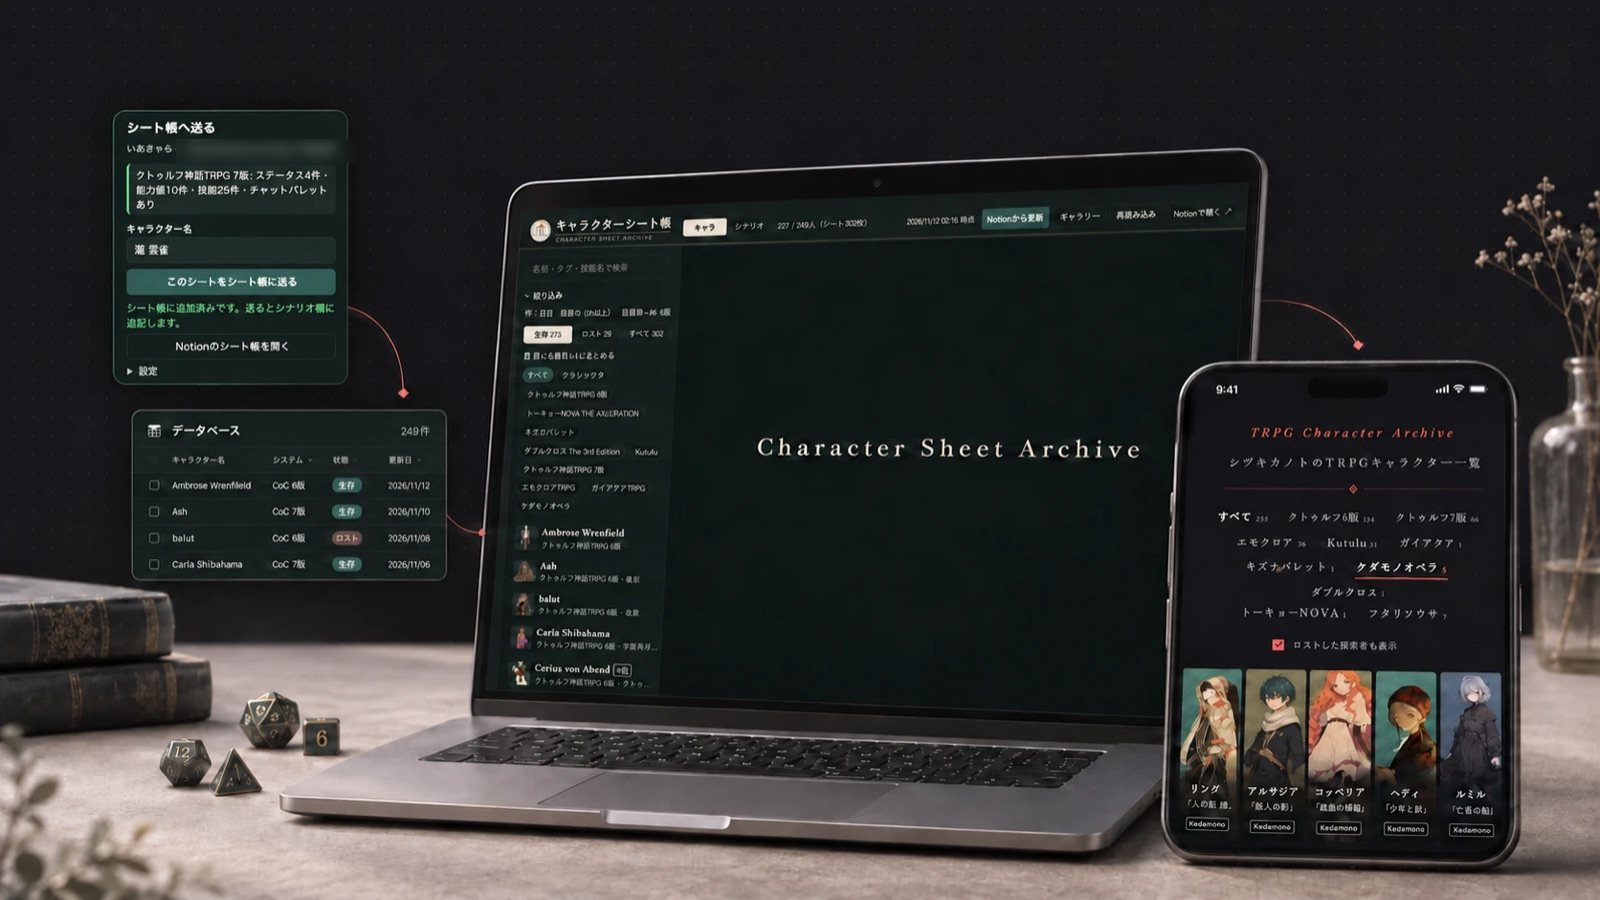
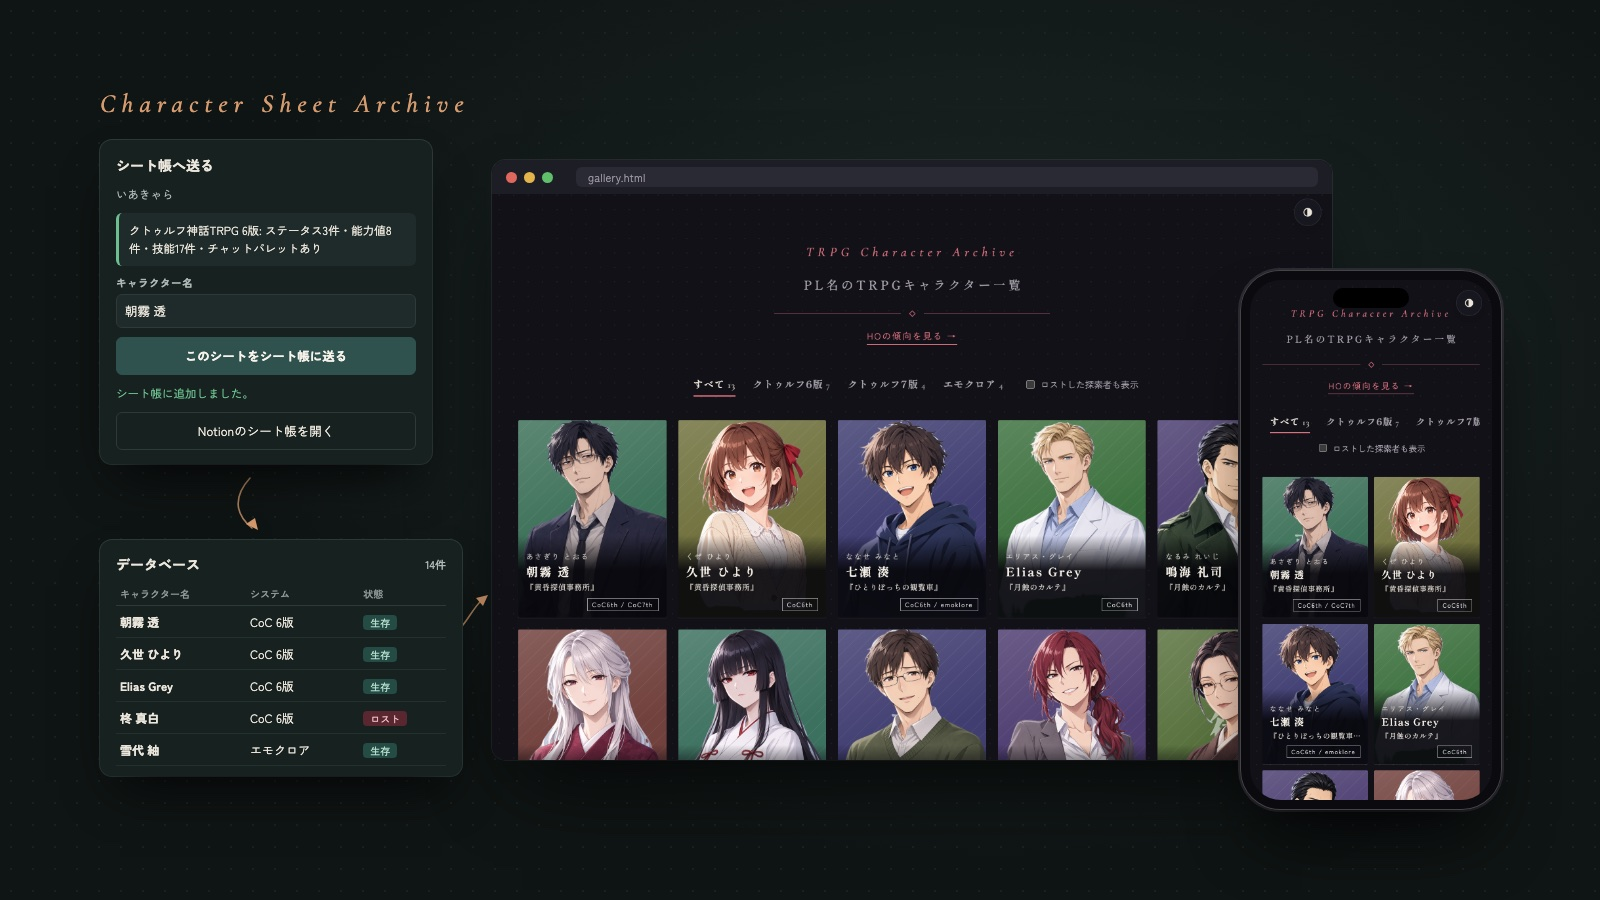
キャラクターシート帳：トップページと紹介ページの画像を、架空のキャラクターで作り直したものに差し替える

diff --git a/works/trpg_charsheet_book/index.html b/works/trpg_charsheet_book/index.html
@@ -9,7 +9,7 @@
   <meta property="og:title" content="キャラクターシート帳">
   <meta property="og:description" content="いあきゃら・キャラッシュなど各サイトのキャラクターシートを、Chrome拡張でNotionに集めて一覧にします。">
   <meta property="og:url" content="https://shizaki-kanoto.is-a.dev/works/trpg_charsheet_book/">
-  <meta property="og:image" content="https://shizaki-kanoto.is-a.dev/works/trpg_charsheet_book/ogp.jpg">
+  <meta property="og:image" content="https://shizaki-kanoto.is-a.dev/works/trpg_charsheet_book/ogp.jpg?v=2">
   <meta property="og:image:width" content="1280">
   <meta property="og:image:height" content="720">
   <meta name="twitter:card" content="summary_large_image">
@@ -213,7 +213,7 @@
         </div>
       </div>
       <figure>
-        <img src="../../images/works/trpg_charsheet_book-image.jpg" alt="キャラクターシート帳のイメージ。Chrome 拡張の「シート帳へ送る」から Notion のデータベースに集まり、ノートパソコンとスマホの一覧ページに表示される" width="1600" height="900">
+        <img src="../../images/works/trpg_charsheet_book-image.jpg?v=2" alt="キャラクターシート帳のイメージ。拡張機能「シート帳へ送る」で送ったシートが Notion のデータベースに集まり、パソコンとスマホのギャラリーに立ち絵つきで並ぶ。画面のキャラクターはすべて架空" width="1600" height="900">
       </figure>
     </div>
   </header>
@@ -243,8 +243,8 @@
       <div class="wrap">
         <h2>実際の画面</h2>
         <figure class="shot">
-          <img src="screen.png" alt="拡張機能「シート帳へ送る」のポップアップ。キャラッシュのエモクロアTRPGのシートで、ステータス3件・能力値8件・技能17件・チャットパレットありと読み取れたこと、キャラクター名、「追加済み：シナリオを更新」のボタン、全42人のうち新規0人・追加済み42人と出ている" width="408" height="493" loading="lazy">
-          <figcaption>キャラッシュでシートを開いて、拡張機能のアイコンを押したところ。読み取れた項目と、Notion に追加済みかどうかが出ます。シートの URL はぼかしています。</figcaption>
+          <img src="screen.png?v=2" alt="拡張機能「シート帳へ送る」のポップアップ。いあきゃらのクトゥルフ神話TRPG 6版のシートで、ステータス3件・能力値8件・技能17件・チャットパレットありと読み取れたこと、キャラクター名「朝霧 透」、「このシートをシート帳に送る」のボタン、「シート帳に追加しました。」の表示が出ている" width="340" height="406" loading="lazy">
+          <figcaption>シートのページで拡張機能のアイコンを押したところ。読み取れた項目が出て、そのまま Notion に送れます。説明用に、架空のキャラクターで表示を再現しています。</figcaption>
         </figure>
 
         <h3 class="sub">ギャラリー</h3>

diff --git a/index.html b/index.html
@@ -629,8 +629,8 @@
         <article class="card">
           <div class="thumb">
             <span class="ph">キャラクターシート帳</span>
-            <img data-view="capture" src="images/works/trpg_charsheet_book.jpg" alt="キャラクターシート帳の画面。左にタグで絞り込めるキャラクター一覧、上に検索と表示切り替えがある" width="1600" height="1000" loading="lazy" onerror="thumbImgError(this)">
-            <img data-view="image" src="images/works/trpg_charsheet_book-image.jpg" alt="キャラクターシート帳のイメージ。Chrome 拡張の「シート帳へ送る」から Notion のデータベースに集まり、ノートパソコンとスマホの一覧ページに表示される" width="1600" height="900" loading="lazy" onerror="thumbImgError(this)">
+            <img data-view="capture" src="images/works/trpg_charsheet_book.jpg?v=2" alt="キャラクターシート帳のギャラリーの画面。架空のキャラクターの立ち絵つきタイルが並び、上にシステムの切り替えがある" width="1600" height="1000" loading="lazy" onerror="thumbImgError(this)">
+            <img data-view="image" src="images/works/trpg_charsheet_book-image.jpg?v=2" alt="キャラクターシート帳のイメージ。拡張機能「シート帳へ送る」で送ったシートが Notion のデータベースに集まり、パソコンとスマホのギャラリーに立ち絵つきで並ぶ。画面のキャラクターはすべて架空" width="1600" height="900" loading="lazy" onerror="thumbImgError(this)">
           </div>
           <div class="body">
             <h4><a class="card-link" href="https://shizaki-kanoto.is-a.dev/works/trpg_charsheet_book/">キャラクターシート帳</a></h4>
